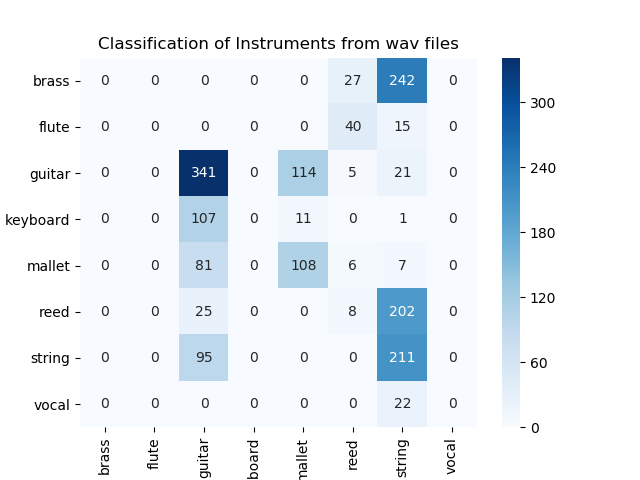
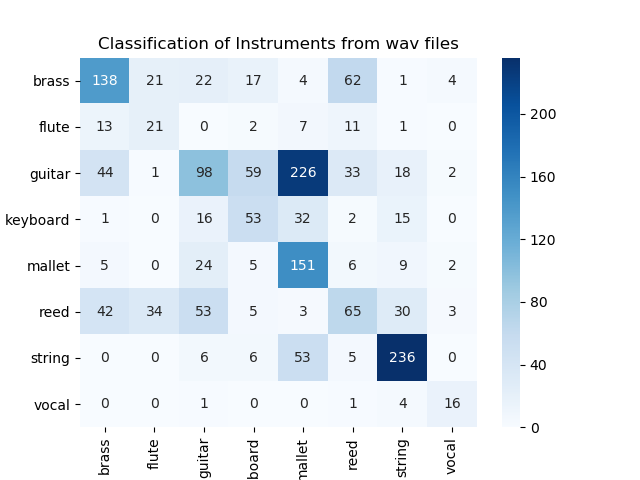
clean up neural net

diff --git a/neural_net.py b/neural_net.py
@@ -32,30 +32,17 @@ train_labels = np.loadtxt('train/labels.txt')
 endtime = time.time() - starttime
 print('loaded training labels in ', endtime, 's.')
 
-#labels = np.loadtxt('tests/labels.txt')
 starttime = time.time()
 test_labels = np.loadtxt('test/labels.txt')
 endtime = time.time() - starttime
 print('loaded test labels in ', endtime, 's.')
 starttime = time.time()
 
-# print(labels.shape)
-#train_dictfile = open('dictionary.txt', 'r')
-#test_dictfile = open('dictionary.txt', 'r')
-
 dictfile = open('dictionary.txt', 'r')
 train_instruments = eval(dictfile.read())
-
-"""
-test_instruments = eval(test_dictfile.read())
-if train_dictfile != test_dictfile:
-    print("dictionary mismatch")
-    exit(1)
-"""
 category_count = len(train_instruments)
 train_label_cats = keras.utils.to_categorical(train_labels, num_classes=category_count)
 test_label_cats = keras.utils.to_categorical(test_labels, num_classes=category_count)
-
 
 # build model
 
@@ -64,9 +51,8 @@ all_labels = train_instruments.keys()
 model = keras.models.Sequential()
 
 # set up layers
-model.add(keras.layers.Dense(50, input_dim=5190))
+model.add(keras.layers.Dense(50, input_dim=30))
 model.add(keras.layers.Activation('sigmoid'))
-#model.add(keras.layers.Activation('relu'))  # can experiment with different activation functions
 model.add(keras.layers.Dense(100))
 model.add(keras.layers.Activation('sigmoid'))
 model.add(keras.layers.Dense(category_count, activation=tf.nn.sigmoid))
@@ -77,7 +63,7 @@ model.compile(optimizer='rmsprop',
 
 # train model
 starttime = time.time()
-model.fit(x=train_features, y=train_label_cats, epochs=1)
+model.fit(x=train_features, y=train_label_cats, epochs=10)
 endtime = time.time() - starttime
 print('one epoch in  ', endtime, 's.')
 

diff --git a/preprocess_data.py b/preprocess_data.py
@@ -88,5 +88,5 @@ def write_files(features, labels, test_or_train):
     np.savetxt(label_file, labels, fmt="%s")
 
 
-get_files('train')
-#get_files('test')
+#get_files('train')
+get_files('test')
